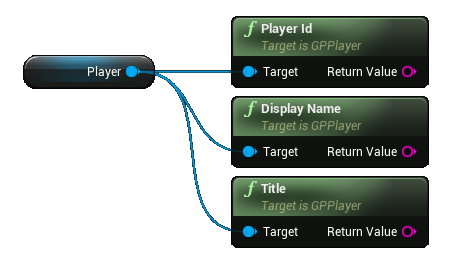
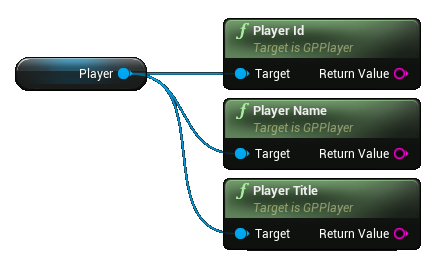
add social features docs

diff --git a/docs/ue-plugins/google-play-unreal.md b/docs/ue-plugins/google-play-unreal.md
@@ -19,7 +19,7 @@ The main field to configure is the *Game App ID*. Navigate to Project Settings -
 
 ![](images/play-goodies/setup/platform_settings.png)
 
-?> **DO NOT** check the *Enable Google Play Support* checkbox. This will instruct Unreal Engine to use dependencies that will collide with our plugin and may lead to undefined behavior.
+?> If *Enable Google Play Support* is checked then Unreal Engine will pull in its own Google Play Games Services dependencies. This might lead to undefined behavior if these dependencies  collide with our own. We cannot test every scenario so if you encounter any problems contact us on our Discord server.
 
 If you need an access token from the login operation (e. g. required for integration with Firebase Auth) you will need to setup a Client ID in the plugin's settings.
 
@@ -33,7 +33,7 @@ The authentication flow contains 4 nodes:
 
 ![](images/play-goodies/auth/auth_flow.png)
 
-* Login - use this node to show a login UI to your users. After a successful login an event will be raised where you will have access to the logged in user's [Account](#account-details) (requires permissions flags) and [Player](#player-details) info.
+* Login - use this node to show a login UI to your users. After a successful login, an event will be raised where you will have access to the logged-in user's [Account](#account-details) (requires permissions flags) and [Player](#player-details) info. By enabling silent login the UI will not be shown after the first successful login and the last user will be logged in automatically.
 * Logout - this will logout the current user.
 * Is Logged In - checks if a user is logged in.
 * Revoke Access - if you requested additional permissions (e. g. email) during login and they were granted you can revoke them using this node.
@@ -45,7 +45,7 @@ Account data requires additional permissions during login. If these permissions 
 ![](images/play-goodies/auth/account.png)
 
 * Id - account unique ID (requires ID permission)
-* Display Name - account display name (requires Profile permissions)
+* Name - account display name (requires Profile permissions)
 * Email - account email (requires email permission)
 * Access Token - token used to authenticate with other services (requires ID Token permission)
 
@@ -55,9 +55,52 @@ Account data requires additional permissions during login. If these permissions 
 ![](images/play-goodies/auth/player.png)
 
 * Id - player unique ID
-* Display Name - player display name
+* Name - player display name
 * Title - player title
 
 You can grab the player icon and/or banner image using the following nodes. This is an asynchronous operation so the texture can only be used when the respective callback event is invoked.
 
 ![](images/play-goodies/auth/player_images.png)
+
+## Player stats
+
+You can retrieve some statistics for the logged in user and act upon them.
+
+![](images/play-goodies/auth/stats.png)
+
+* Days since last played: The approximate number of days since the player last played.
+* Average session length: The average session length of the player in minutes. Session length is determined by the time that a player is signed in to Google Play Games services.
+* Number of purchases: The approximate number of in-app purchases for the player.
+* Number of sessions: The approximate number of sessions of the player. Sessions are determined by the number of times that a player signs in to Google Play Games services.
+* Session percentile: The approximation of sessions percentile for the player, given as a decimal value between 0 to 1 inclusive. This value indicates how many sessions the current player has played in comparison to the rest of this game's player base. Higher numbers indicate that this player has played more sessions.
+* Spend percentile: The approximate spend percentile of the player, given as a decimal value between 0 to 1 inclusive. This value indicates how much the current player has spent in comparison to the rest of this game's player base. Higher numbers indicate that this player has spent more.
+
+# **Social**
+
+## Achievements
+
+Read about how to configure and use *Achievements* [here](https://developers.google.com/games/services/common/concepts/achievements).
+
+![](images/play-goodies/social/achievements.png)
+
+To unlock an achievement for the user use the `Unlock Achievement` node. If an achievement is incremental you can increase its value with `Increment Achievement`. Once an incremental achievement gets to the specified goal it will unlock automatically,
+
+To show an external UI with all of the achievements use the `Show Achievement UI` node.
+
+## Leaderboards
+
+Read about how to configure and use *Achievements* [here](https://developers.google.com/games/services/common/concepts/leaderboards).
+
+![](images/play-goodies/social/leaderboards.png)
+
+To post a score invoke the `Submit Score` node. If the submitted score is less than it was it will be discarded. To show a leaderboard use the `Show Leaderboard UI` node. You can specify the default leaderboard time span (daily, weekly, or all-time) and the collection scope (public or friends only). These filters can be changed in the eternal UI.
+
+## Events
+
+Read about how to configure and use *Events* [here](https://developers.google.com/games/services/common/concepts/events).
+
+![](images/play-goodies/social/event_ops.png)
+
+`Increment Event` will increment an event by the specified value. The `Load Events` node allows you to retrieve all available events for your project. You can specify an array of Event Ids so that only they are loaded. Once you load the events you can access this data on them:
+
+![](images/play-goodies/social/event.png)
